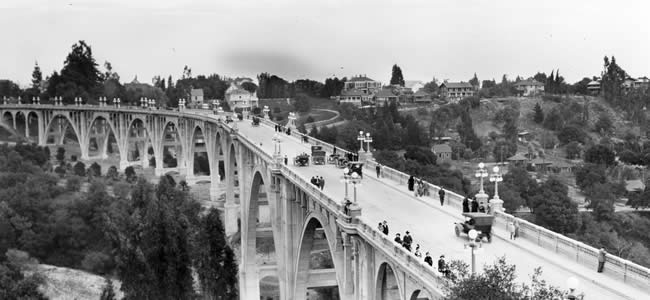
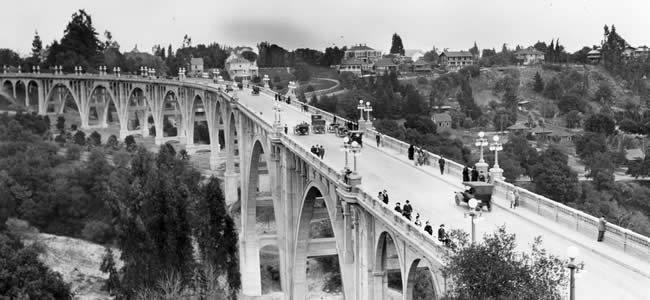
recrop main homepage image and set heading gradient stop

diff --git a/app/styles/_home.scss b/app/styles/_home.scss
@@ -42,7 +42,7 @@
 	text-align: center;
 	background: #666; // for <= IE 8
 	background: rgba(0, 0, 0, 0.5); // for IE 9
-	background: linear-gradient(rgba(0, 0, 0, 0.9), rgba(0, 0, 0, 0));
+	background: linear-gradient(rgba(0, 0, 0, 0.7) 70%, rgba(0, 0, 0, 0));
 
 	@include bp(sm-screen) {
     padding: 30px 10px;
